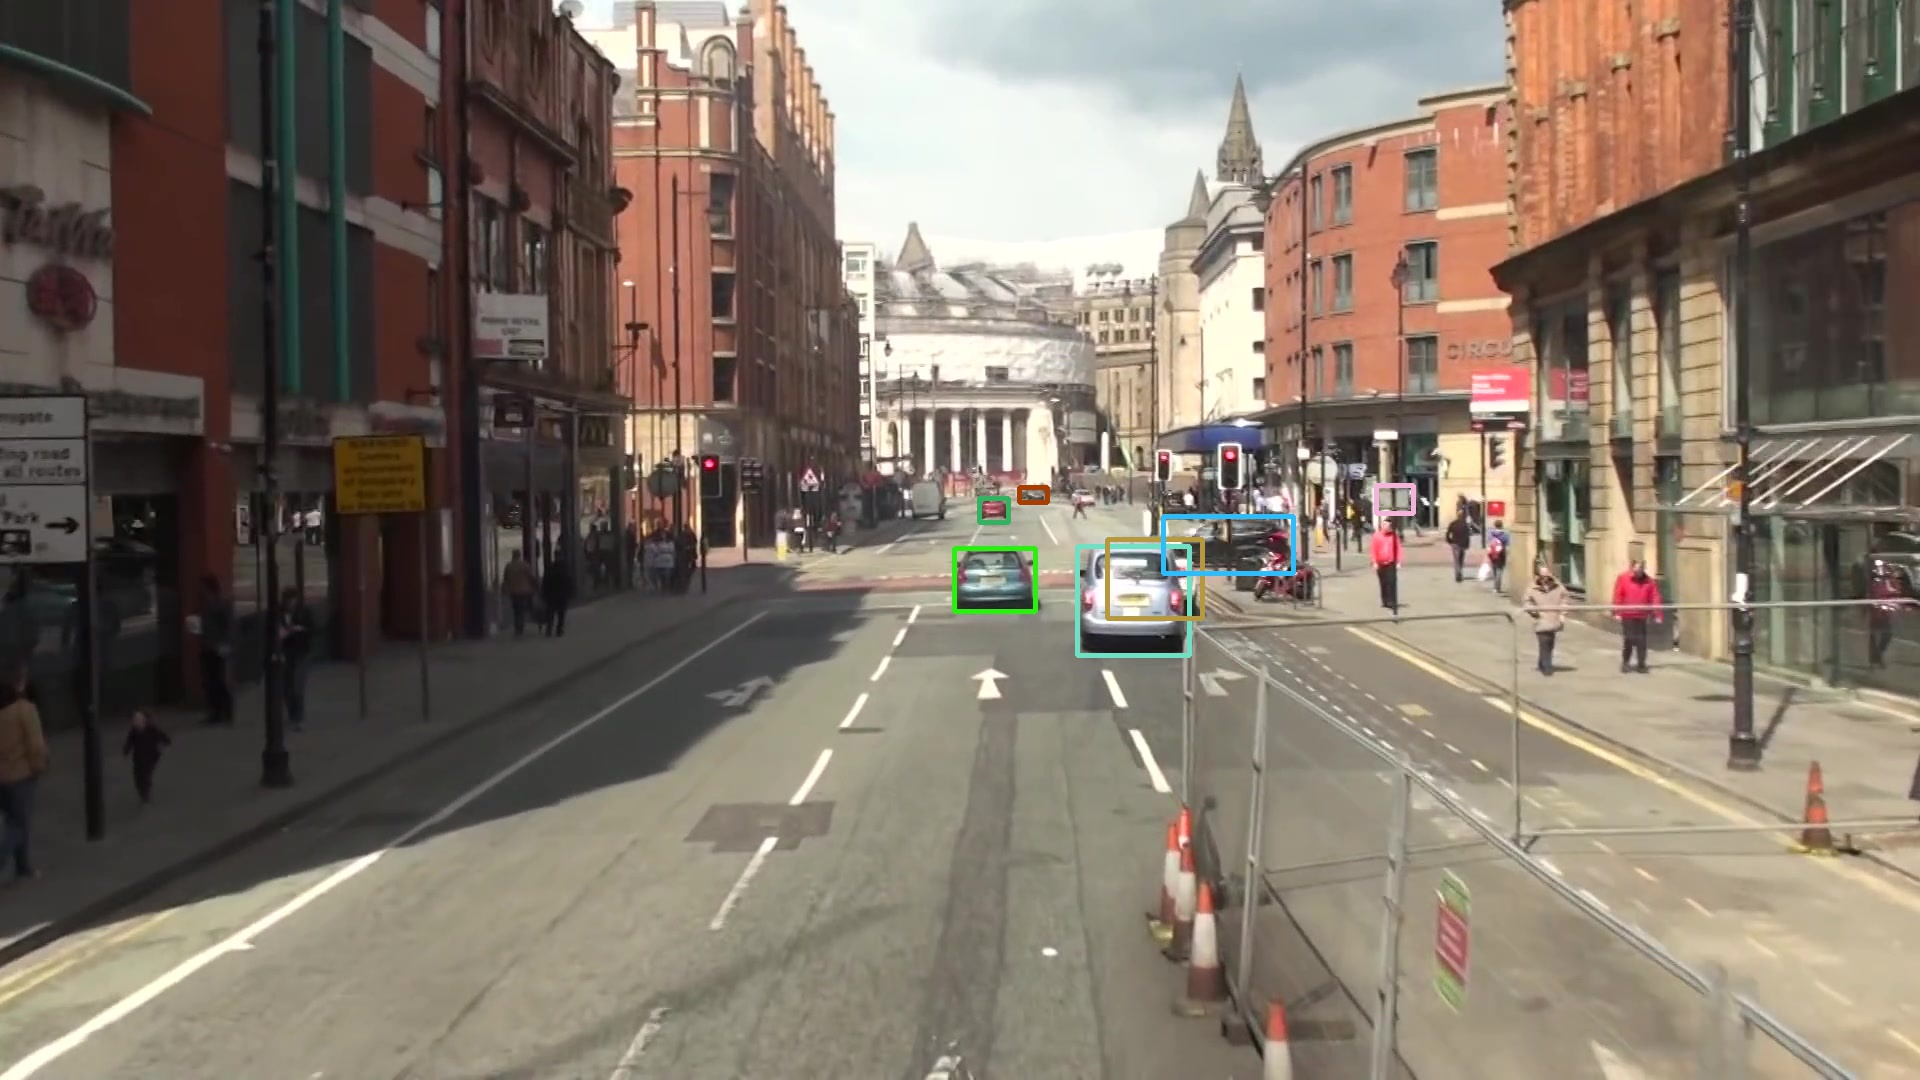
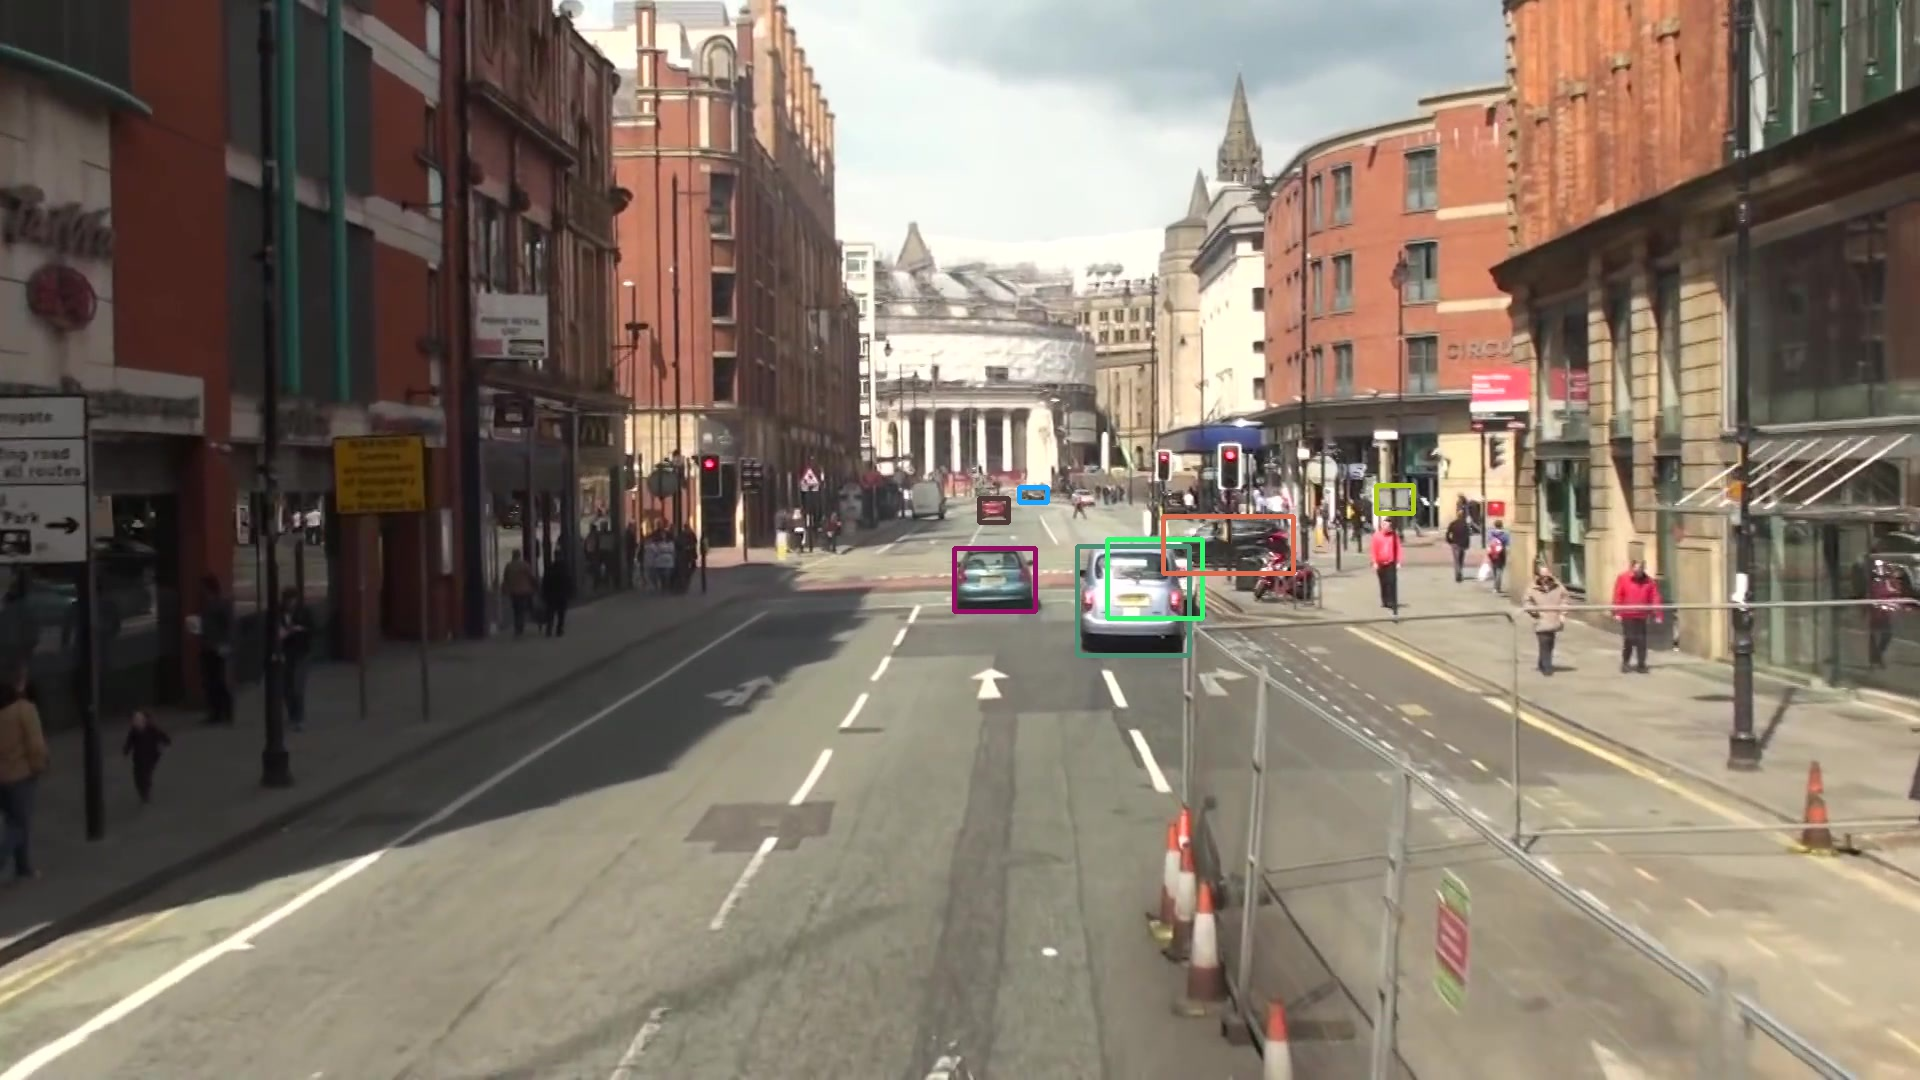
max found for all columns

Changed region(s): [[0.5, 0.4278, 0.6875, 0.6111], [0.7188, 0.4278, 0.75, 0.4889], [0.4688, 0.5194, 0.5, 0.55]]

diff --git a/main.py b/main.py
@@ -1,9 +1,7 @@
-from curses.textpad import rectangle
-from email.mime import image
 import cv2 as cv
-import numpy as np
 import os
 import logging
+import pandas as pd
 from random import randint
 
 
@@ -151,11 +149,32 @@ for i in range(len(files) - 1) :
             max_index = -1
 
             iou = calculate_iou(box_list1[b],box_list2[k])
-            row.append(iou)        
+            row.append(iou)
+        max_value = max(row)
+        max_index = row.index(max_value)
+        row[~max_index] = 0        
         column.append(row)
 
+    # find max column
+    max_column = []
+
+    for j in range(len(box_list2)) :
+        max_column.append((0, -1, -1)) 
+
+    for j in range(len(column)) :
+        for k in range(len(column[j])) : 
+            val, c, r = max_column[k]
+            if column[j][k] > val : 
+                max_column[k] = (column[j][k],j, k)
+    for j in max_column : 
+        val, c, r = j 
+        column[c][r] = -1
+        column[~c][r] = 0
+    
     
     break
+    
+    
 
 
 
